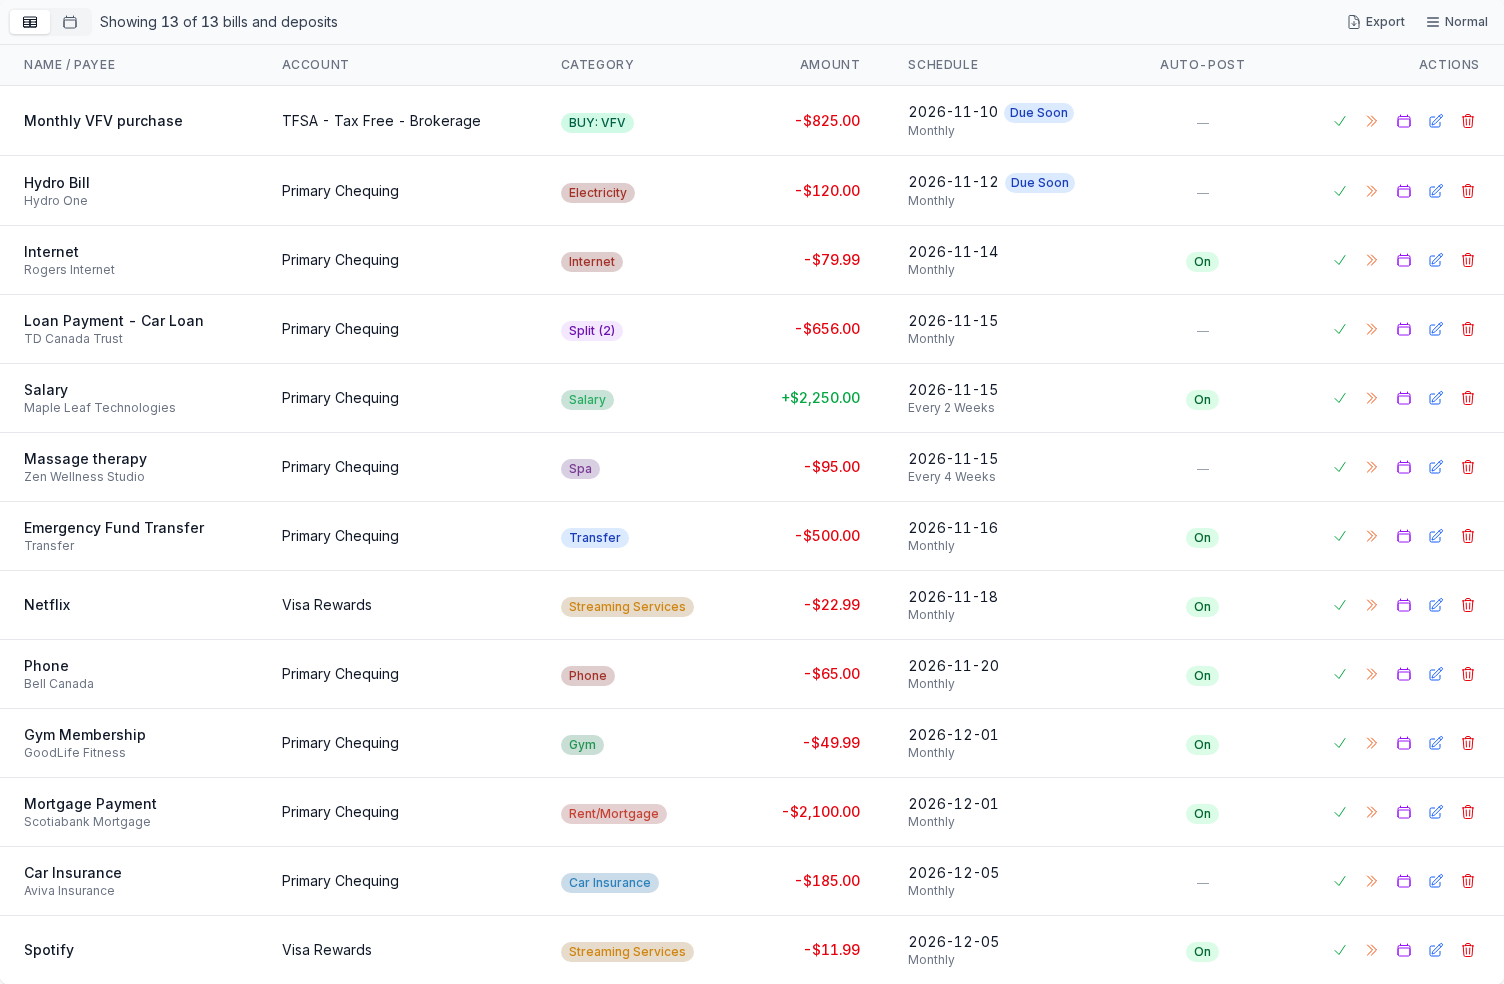
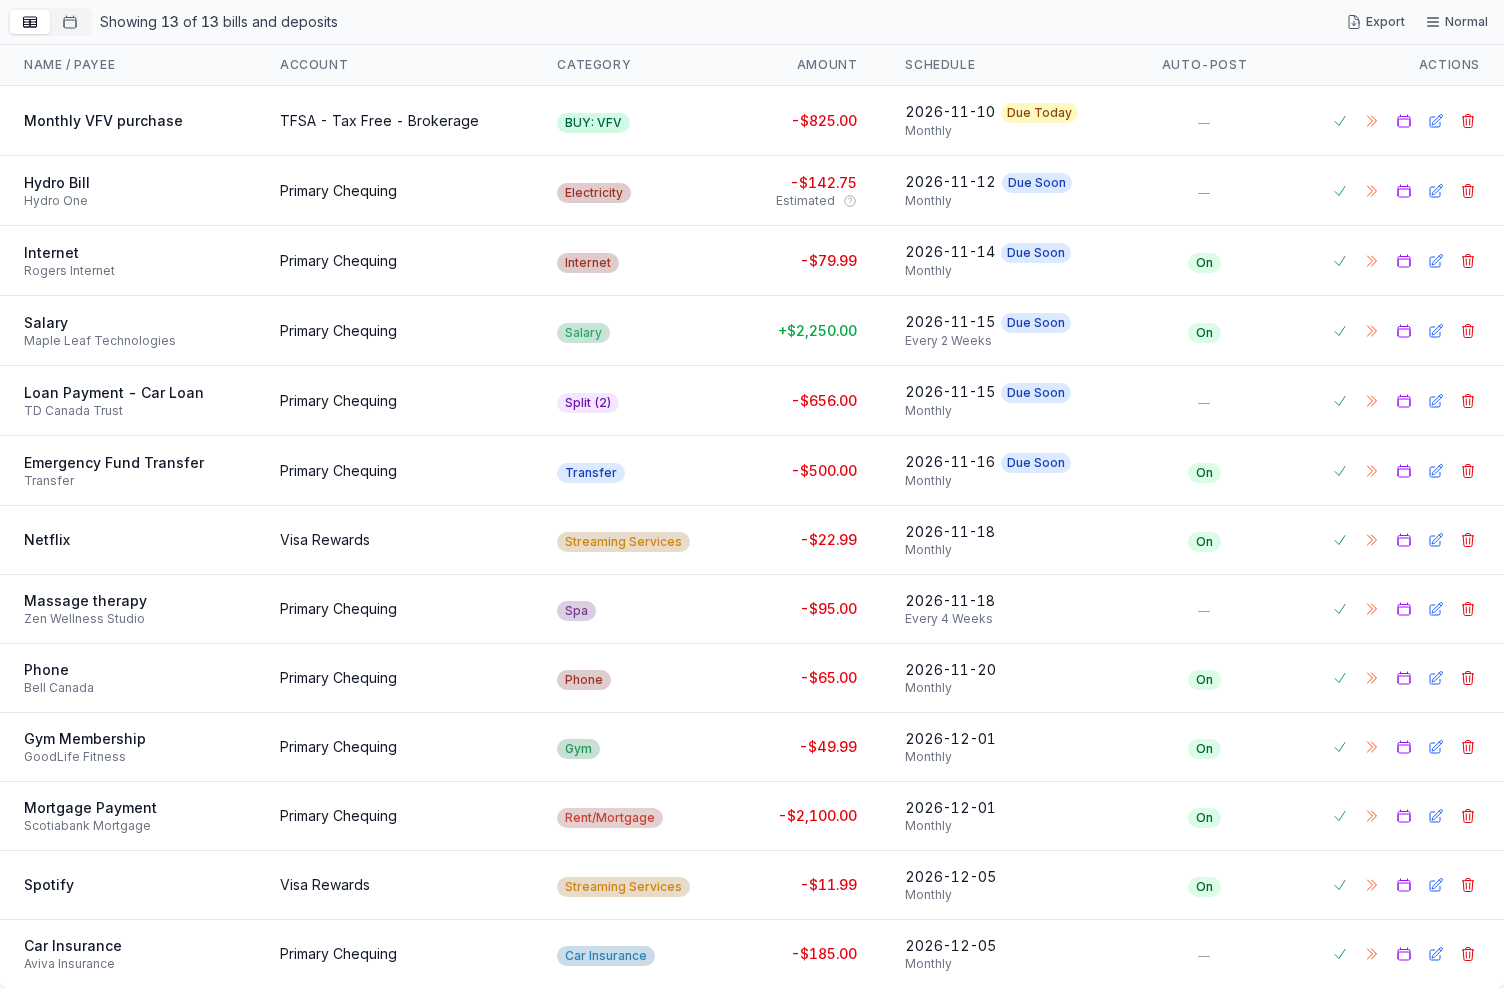
docs(scheduled): retake the Bills & Deposits pictures with an estimated bill
The screenshot run switches the demo's Hydro Bill to Estimate (issue
#2096), after adding the year of Hydro One payments before the demo's
twelve months so the estimate has two years to read. Post Transaction and
Edit Occurrence now picture that bill, and a new
scheduled-transaction-estimate picture shows the form with Estimate on;
the page, forecast, list, calendar and form pictures are retaken from this
branch in both themes.

diff --git a/website/docs/bills-and-deposits.html b/website/docs/bills-and-deposits.html
@@ -26,6 +26,7 @@
 <li>When every month went up (or down) by about the same share from one year to the next, the estimate carries that trend forward.</li>
 <li>A payment in another currency is converted at the current exchange rate. Refunds from the biller are left out.</li>
 </ul>
+<figure><img src="/docs/images/scheduled-transaction-estimate.png" alt="A schedule with Estimate on" width="1104" height="942" loading="lazy" decoding="async" class="shot-dark"/><img src="/docs/images/scheduled-transaction-estimate.light.png" alt="A schedule with Estimate on" width="1104" height="942" loading="lazy" decoding="async" class="shot-light"/><figcaption>A schedule with Estimate on</figcaption></figure>
 <p>The estimate follows new payments as you record them. Under the <strong>Amount</strong>, the form says how many payments the estimate is based on, or what is missing when there is not enough to estimate from: no payments yet, or no exchange rate for a payment&#x27;s currency. An estimated schedule needs a <strong>Payee</strong> and a <strong>Category</strong>, is available for a single-category transaction in the account&#x27;s own currency (not a split, transfer, investment, or foreign-currency amount), and is never posted automatically, so <strong>Auto-post on due date</strong> is turned off.</p>
 <p>You still decide every occurrence: the bills list labels the amount <strong>Estimated</strong>, <strong>Edit Occurrence</strong> shows each upcoming occurrence&#x27;s estimate and lets you change any of them, and the <strong>Post Transaction</strong> dialog opens on the estimate for you to correct before posting. An occurrence you change keeps your amount; one you leave alone keeps following the estimate.</p>
 <h3 id="split-scheduled-transactions">Split Scheduled Transactions<a class="hlink" href="#split-scheduled-transactions" aria-label="Link to this section">#</a></h3>
@@ -41,7 +42,7 @@
 <h2 id="bills-list">Bills List<a class="hlink" href="#bills-list" aria-label="Link to this section">#</a></h2>
 <p>Below the forecast, the list shows all scheduled transactions with:</p>
 <div class="table-wrap"><table><thead><tr><th>Column</th><th>Description</th></tr></thead><tbody><tr><td><strong>Name / Payee</strong></td><td>What the schedule is called and who it is with</td></tr><tr><td><strong>Account</strong></td><td>The account involved</td></tr><tr><td><strong>Category</strong></td><td>The category, the transfer&#x27;s destination, or a <strong>Split</strong> badge</td></tr><tr><td><strong>Amount</strong></td><td>The amount of the next occurrence</td></tr><tr><td><strong>Schedule</strong></td><td>The next due date with an <strong>Overdue</strong>, <strong>Due Today</strong>, or <strong>Due Soon</strong> (within a week) badge, the frequency, and how many occurrences are left</td></tr><tr><td><strong>Auto-Post</strong></td><td><strong>On</strong> when the schedule posts itself</td></tr><tr><td><strong>Actions</strong></td><td><strong>Post Transaction</strong>, <strong>Skip Occurrence</strong>, <strong>Edit Occurrence</strong>, <strong>Edit Schedule</strong>, and <strong>Delete</strong></td></tr></tbody></table></div>
-<figure><img src="/docs/images/bills-list.png" alt="The list of scheduled transactions" width="1504" height="984" loading="lazy" decoding="async" class="shot-dark"/><img src="/docs/images/bills-list.light.png" alt="The list of scheduled transactions" width="1504" height="984" loading="lazy" decoding="async" class="shot-light"/><figcaption>The list of scheduled transactions</figcaption></figure>
+<figure><img src="/docs/images/bills-list.png" alt="The list of scheduled transactions" width="1504" height="988" loading="lazy" decoding="async" class="shot-dark"/><img src="/docs/images/bills-list.light.png" alt="The list of scheduled transactions" width="1504" height="988" loading="lazy" decoding="async" class="shot-light"/><figcaption>The list of scheduled transactions</figcaption></figure>
 <p>A <strong>modified</strong> badge counts the upcoming occurrences you have changed (see <a href="#overriding-individual-occurrences">Overriding Individual Occurrences</a>), and paused schedules are marked inactive.</p>
 <h3 id="filtering">Filtering<a class="hlink" href="#filtering" aria-label="Link to this section">#</a></h3>
 <p><strong>Show filters</strong> opens the filter panel and <strong>Hide</strong> folds it away again. At the top of the panel, the <strong>All</strong>, <strong>Bills</strong>, and <strong>Deposits</strong> buttons narrow the list to one kind of schedule; below them you can search by <strong>Name</strong> and narrow by <strong>Payees</strong>, <strong>Accounts</strong>, and <strong>Categories</strong>. While the panel is folded, its header counts the filters in use and lists each one as a chip you can remove, and <strong>Clear</strong> removes them all.</p>
@@ -52,7 +53,7 @@
 <figure><img src="/docs/images/bills-calendar.png" alt="Bills &amp; Deposits in calendar view" width="1600" height="1000" loading="lazy" decoding="async" class="shot-dark"/><img src="/docs/images/bills-calendar.light.png" alt="Bills &amp; Deposits in calendar view" width="1600" height="1000" loading="lazy" decoding="async" class="shot-light"/><figcaption>Bills &amp; Deposits in calendar view</figcaption></figure>
 <h2 id="posting-a-transaction">Posting a Transaction<a class="hlink" href="#posting-a-transaction" aria-label="Link to this section">#</a></h2>
 <p>To record an occurrence yourself, click <strong>Post Transaction</strong> on its row. The <strong>Post Transaction</strong> dialog lets you change the <strong>Transaction Date</strong>, the <strong>Amount</strong>, the <strong>Category</strong>, the <strong>Description</strong>, and the <strong>Reference Number</strong> for this posting only, or split it with <strong>Split this transaction</strong>. It shows what the posting does to the account&#x27;s balance, and warns you when posting on that date would take an account below zero or over its credit limit.</p>
-<figure><img src="/docs/images/bills-post-transaction.png" alt="The Post Transaction dialog" width="1024" height="632" loading="lazy" decoding="async" class="shot-dark"/><img src="/docs/images/bills-post-transaction.light.png" alt="The Post Transaction dialog" width="1024" height="632" loading="lazy" decoding="async" class="shot-light"/><figcaption>The Post Transaction dialog</figcaption></figure>
+<figure><img src="/docs/images/bills-post-transaction.png" alt="The Post Transaction dialog" width="1024" height="652" loading="lazy" decoding="async" class="shot-dark"/><img src="/docs/images/bills-post-transaction.light.png" alt="The Post Transaction dialog" width="1024" height="652" loading="lazy" decoding="async" class="shot-light"/><figcaption>The Post Transaction dialog</figcaption></figure>
 <p>Click <strong>Post Transaction</strong> to create the transaction and advance the schedule to its next due date. Clicking an item in the dashboard&#x27;s <a href="/docs/dashboard#upcoming-bills">Upcoming Bills</a> widget opens the same dialog.</p>
 <h2 id="auto-posting">Auto-Posting<a class="hlink" href="#auto-posting" aria-label="Link to this section">#</a></h2>
 <p>When <strong>Auto-post on due date</strong> is turned on for a scheduled transaction, Monize automatically creates the transaction on its due date without any manual intervention.</p>
@@ -84,7 +85,7 @@
 <li>To split just this occurrence across multiple categories, turn on <strong>Split this occurrence</strong> and add category/amount rows (independent of whether the underlying schedule is split)</li>
 <li>Click <strong>Save Override</strong> (or <strong>Update Override</strong> for one you changed before)</li>
 </ol>
-<figure><img src="/docs/images/bills-edit-occurrence.png" alt="The Edit Occurrence dialog" width="1024" height="546" loading="lazy" decoding="async" class="shot-dark"/><img src="/docs/images/bills-edit-occurrence.light.png" alt="The Edit Occurrence dialog" width="1024" height="546" loading="lazy" decoding="async" class="shot-light"/><figcaption>The Edit Occurrence dialog</figcaption></figure>
+<figure><img src="/docs/images/bills-edit-occurrence.png" alt="The Edit Occurrence dialog" width="1024" height="622" loading="lazy" decoding="async" class="shot-dark"/><img src="/docs/images/bills-edit-occurrence.light.png" alt="The Edit Occurrence dialog" width="1024" height="622" loading="lazy" decoding="async" class="shot-light"/><figcaption>The Edit Occurrence dialog</figcaption></figure>
 <p>The override only affects that single occurrence. All other future occurrences follow the original schedule. <strong>Reset to Default</strong> removes the override. When you later edit a schedule that has overrides, Monize asks whether to <strong>Keep Modifications</strong> or <strong>Delete All Modifications</strong>.</p>
 <h3 id="skipping-an-occurrence">Skipping an Occurrence<a class="hlink" href="#skipping-an-occurrence" aria-label="Link to this section">#</a></h3>
 <p>If a recurring bill does not apply for a particular period (e.g., a holiday causes a payment to be skipped):</p>

diff --git a/e2e/docs-screenshots/bills-and-deposits.spec.ts b/e2e/docs-screenshots/bills-and-deposits.spec.ts
@@ -5,7 +5,7 @@ import {
   type Locator,
   type Page,
 } from "@playwright/test";
-import { scrollUnderHeader, waitForReady } from "../readme/session";
+import { apiFor, scrollUnderHeader, waitForReady } from "../readme/session";
 import { cardOf, docShot, openDocsSession } from "./capture";
 
 // website/docs/bills-and-deposits.md: the page, its forecast and list, the
@@ -20,7 +20,55 @@ test.beforeAll(async ({ browser }) => {
   test.setTimeout(300_000);
   context = await openDocsSession(browser);
   page = await context.newPage();
+  await estimateTheHydroBill();
 });
+
+interface ScheduleRow {
+  id: string;
+  name: string;
+  accountId: string;
+  payeeId: string | null;
+  categoryId: string | null;
+  amountIsEstimated?: boolean;
+}
+
+/**
+ * The demo's Hydro Bill with the Estimate option on (issue #2096), so the
+ * pictures show an estimated bill. The demo holds twelve months of Hydro One
+ * payments; the year before them, at the same seasonal shape and 5% cheaper,
+ * is added once, so the estimate has two years to find the season in.
+ */
+async function estimateTheHydroBill(): Promise<void> {
+  const api = apiFor(page);
+  const schedules = await api.get<ScheduleRow[]>("/scheduled-transactions");
+  const hydro = schedules.find((s) => s.name === "Hydro Bill");
+  if (!hydro || !hydro.payeeId || !hydro.categoryId) {
+    throw new Error("The demo data has no Hydro Bill with a payee and category");
+  }
+  if (hydro.amountIsEstimated) return;
+  const today = new Date();
+  for (let back = 13; back <= 24; back++) {
+    const date = new Date(
+      Date.UTC(today.getUTCFullYear(), today.getUTCMonth() - back, 12),
+    );
+    // The demo's own shape: winter November to March, summer June to September.
+    const month = date.getUTCMonth();
+    const base =
+      month >= 10 || month <= 2 ? 140 : month >= 5 && month <= 8 ? 95 : 110;
+    await api.post("/transactions", {
+      accountId: hydro.accountId,
+      payeeId: hydro.payeeId,
+      categoryId: hydro.categoryId,
+      amount: -Math.round(base * 0.95 * 100) / 100,
+      currencyCode: "CAD",
+      transactionDate: date.toISOString().slice(0, 10),
+      description: "Monthly electricity",
+    });
+  }
+  await api.patch(`/scheduled-transactions/${hydro.id}`, {
+    amountIsEstimated: true,
+  });
+}
 
 // A busy development server can take minutes over one picture.
 test.beforeEach(() => {
@@ -161,8 +209,9 @@ test("scheduled-transaction-form", async () => {
 
 test("bills-post-transaction", async () => {
   await openBills();
+  // The estimated bill: the dialog opens on this month's estimate.
   const dialog = await openFromRow(
-    /Spotify/,
+    /Hydro Bill/,
     "Post Transaction",
     "Post Transaction",
   );
@@ -175,7 +224,7 @@ test("bills-post-transaction", async () => {
 test("bills-edit-occurrence", async () => {
   await openBills();
   const picker = await openFromRow(
-    /Spotify/,
+    /Hydro Bill/,
     "Edit Occurrence",
     "Select Occurrence Date",
   );
@@ -185,4 +234,19 @@ test("bills-edit-occurrence", async () => {
   await settled();
   await docShot(page, "bills-edit-occurrence", editor);
   await cancel(editor);
+});
+
+test("scheduled-transaction-estimate", async () => {
+  await openBills();
+  const dialog = await openFromRow(
+    /Hydro Bill/,
+    "Edit Schedule",
+    "Edit Scheduled Transaction",
+  );
+  await expect(dialog.getByText(/Auto-calculated from payment history/)).toBeVisible({
+    timeout: 30_000,
+  });
+  await settled();
+  await docShot(page, "scheduled-transaction-estimate", dialog);
+  await cancel(dialog);
 });

diff --git a/website/docs/bills-and-deposits.md b/website/docs/bills-and-deposits.md
@@ -54,6 +54,8 @@ For a bill whose amount changes from month to month, such as heating or electric
 - When every month went up (or down) by about the same share from one year to the next, the estimate carries that trend forward.
 - A payment in another currency is converted at the current exchange rate. Refunds from the biller are left out.
 
+![A schedule with Estimate on](images/scheduled-transaction-estimate.png)
+
 The estimate follows new payments as you record them. Under the **Amount**, the form says how many payments the estimate is based on, or what is missing when there is not enough to estimate from: no payments yet, or no exchange rate for a payment's currency. An estimated schedule needs a **Payee** and a **Category**, is available for a single-category transaction in the account's own currency (not a split, transfer, investment, or foreign-currency amount), and is never posted automatically, so **Auto-post on due date** is turned off.
 
 You still decide every occurrence: the bills list labels the amount **Estimated**, **Edit Occurrence** shows each upcoming occurrence's estimate and lets you change any of them, and the **Post Transaction** dialog opens on the estimate for you to correct before posting. An occurrence you change keeps your amount; one you leave alone keeps following the estimate.
